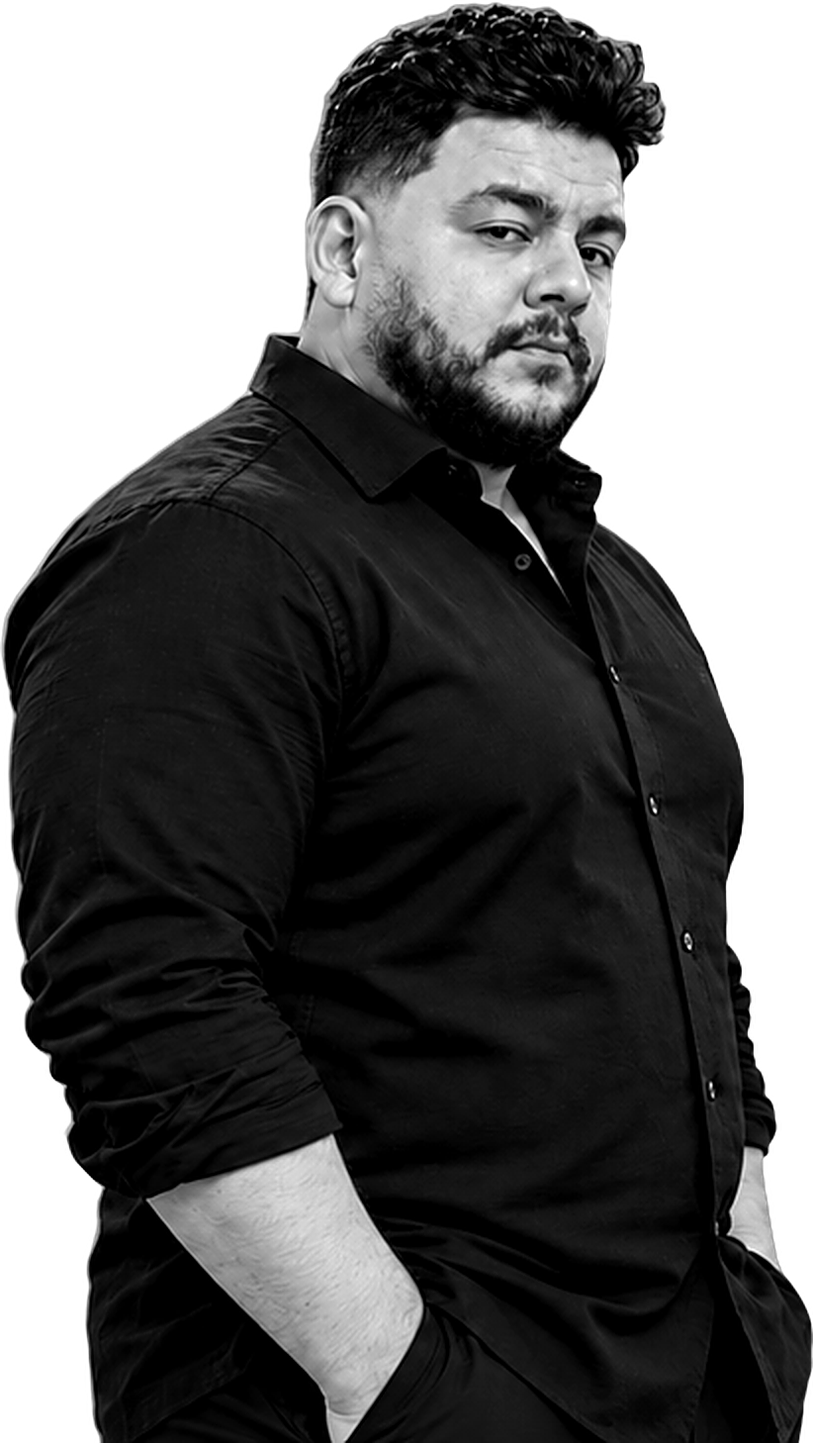
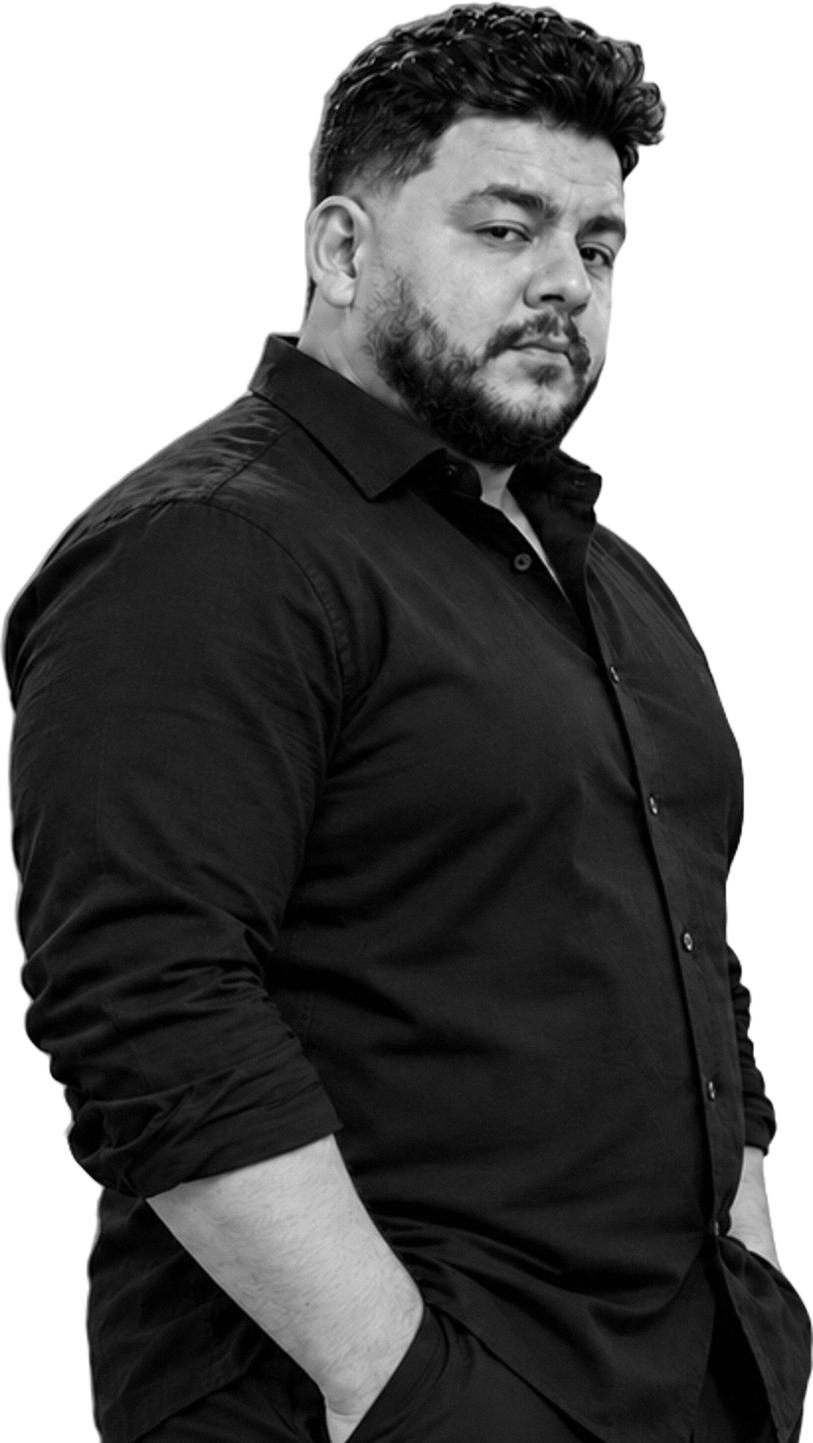
Natural hero photo, fuller About page, new hero line, markets and pricing wording

diff --git a/index.html b/index.html
@@ -4,9 +4,9 @@
 <meta charset="utf-8">
 <meta name="viewport" content="width=device-width,initial-scale=1">
 <title>يوسف خليل | مستشار تسويق</title>
-<meta name="description" content="مستشار تسويق بخبرة 15 سنة في مصر والسعودية. تشخيص تسويقي، استراتيجية 90 يوم، ومدير تسويق بدوام جزئي للشركات.">
+<meta name="description" content="مستشار تسويق بخبرة 15 سنة في مصر والسعودية والإمارات وأوروبا. بقود فريق التسويق عندك أو فريقي ينفذلك، والسعر حسب احتياج كل عميل.">
 <meta property="og:title" content="يوسف خليل | مستشار تسويق">
-<meta property="og:description" content="مستشار تسويق بخبرة 15 سنة في مصر والسعودية. تشخيص تسويقي، استراتيجية 90 يوم، ومدير تسويق بدوام جزئي للشركات.">
+<meta property="og:description" content="مستشار تسويق بخبرة 15 سنة في مصر والسعودية والإمارات وأوروبا. بقود فريق التسويق عندك أو فريقي ينفذلك، والسعر حسب احتياج كل عميل.">
 <meta property="og:type" content="website">
 <meta property="og:url" content="https://youssefkhalil.co/">
 <meta property="og:image" content="https://youssefkhalil.co/youssef-khalil.png">
@@ -446,6 +446,28 @@ nav a[aria-current="page"]{text-decoration:underline;text-underline-offset:6px;t
   .stile{align-items:center}
   .stile img{height:auto;aspect-ratio:4/5;object-fit:cover;border-inline-end:2px solid var(--line)}
 }
+
+/* ===== v19: fuller About + sticker away from face ===== */
+.about-lead{font-family:var(--ar);font-weight:900;font-size:clamp(1.7rem,4.4vw,3.2rem);line-height:1.45;max-width:22ch;color:var(--ink)!important;margin-top:-6px}
+.story .big3{gap:12px 40px}
+.timeline{list-style:none;margin:0;padding:0;border-inline-start:3px solid var(--line);display:flex;flex-direction:column;gap:30px}
+.timeline li{position:relative;padding-inline-start:30px;max-width:70ch}
+.timeline li::before{content:"";position:absolute;inset-inline-start:-10.5px;top:8px;width:18px;height:18px;border-radius:50%;background:var(--red);border:3px solid var(--paper)}
+.tl-k{display:inline-block;font-family:var(--ar);font-weight:800;font-size:.8rem;color:#fff;background:var(--black);border-radius:999px;padding:2px 14px;margin-bottom:8px}
+.timeline p{color:var(--muted);margin-top:4px}
+.quote-sub{color:var(--muted);font-size:1.08rem;max-width:56ch;margin-top:22px}
+.sectors{display:grid;grid-template-columns:repeat(4,minmax(0,1fr));gap:22px}
+.sectors > div{background:var(--sheet);border:2px solid var(--line);padding:22px;box-shadow:6px 6px 0 var(--black)}
+.sectors > div:nth-child(even){box-shadow:6px 6px 0 var(--red)}
+.sectors h3{font-size:1.08rem;margin-bottom:10px}
+.sectors ul{margin:0;padding-inline-start:18px;color:var(--muted);font-size:.95rem}
+.sectors li::marker{color:var(--red)}
+.caps{gap:10px 12px}
+.caps li{font-size:1rem;padding:8px 20px}
+.caps li:nth-child(3n+1){background:var(--black);color:var(--on-black)}
+.sticker{top:auto;bottom:22%;right:auto;left:-3%}
+.hero-photo img{filter:drop-shadow(3px 0 0 var(--red)) drop-shadow(-3px 0 0 var(--red)) drop-shadow(0 -3px 0 var(--red))}
+@media (max-width:860px){.sectors{grid-template-columns:1fr}.about-lead{max-width:none}.sticker{bottom:20%;left:0}}
 </style>
 
 <div class="page" dir="rtl" lang="ar">
@@ -471,7 +493,7 @@ nav a[aria-current="page"]{text-decoration:underline;text-underline-offset:6px;t
       <div><b data-count="35" data-prefix="+">+35</b><span>فرد في أكبر فريق قدته</span></div>
       <div><b data-count="48" data-suffix="M">48M</b><span>ريال مبيعات موسم واحد</span></div>
     </div>
-    <h1><span class="hello">أهلاً</span>— أنا يوسف خليل. ببني للشركات تسويق <span class="sel">بيكسّب</span> بمستوى البراندات الكبيرة.</h1>
+    <h1><span class="hello">أهلاً</span>— أنا يوسف خليل. 15 سنة بحوّل ميزانيات التسويق <span class="sel">لأرباح</span> تتقاس.</h1>
     <div class="hero-actions">
       <a class="btn wa-hero" href="https://wa.me/966567054546?text=%D8%A3%D9%87%D9%84%D8%A7%D9%8B%20%D9%8A%D9%88%D8%B3%D9%81%D8%8C%20%D8%AC%D8%A7%D9%8A%20%D9%85%D9%86%20%D8%A7%D9%84%D9%85%D9%88%D9%82%D8%B9" target="_blank" rel="noopener"><svg viewBox="0 0 24 24" aria-hidden="true"><path d="M12 2a10 10 0 0 0-8.6 15.1L2 22l5-1.3A10 10 0 1 0 12 2zm0 18a8 8 0 0 1-4.1-1.1l-.3-.2-3 .8.8-2.9-.2-.3A8 8 0 1 1 12 20zm4.4-6c-.2-.1-1.4-.7-1.6-.8-.2-.1-.4-.1-.5.1l-.7.9c-.1.2-.3.2-.5.1a6.5 6.5 0 0 1-3.2-2.8c-.2-.4.2-.4.6-1.2.1-.2 0-.3 0-.4l-.7-1.7c-.2-.5-.4-.4-.5-.4h-.5c-.2 0-.4.1-.6.3-.7.7-1 1.5-1 2.3 0 1.3 1 2.6 1.1 2.8.2.2 2 3.1 4.9 4.3 1.8.7 2.5.8 3.4.6.5-.1 1.4-.6 1.6-1.2.2-.6.2-1.1.1-1.2 0-.1-.2-.2-.4-.3z"/></svg>كلمني واتساب</a>
       <a class="btn cal" href="https://calendly.com/youssefmohameed90/marketing-consultation" target="_blank" rel="noopener">احجز اجتماع</a>
@@ -479,7 +501,7 @@ nav a[aria-current="page"]{text-decoration:underline;text-underline-offset:6px;t
     </div>
   </div>
   <div class="hero-photo">
-    <img src="youssef-khalil.png?v=2" alt="يوسف خليل بقميص أسود، صورة أبيض وأسود" width="822" height="1458">
+    <img src="youssef-khalil.png?v=3" alt="يوسف خليل بقميص أسود، صورة أبيض وأسود" width="822" height="1458">
     <span class="sticker">أول مكالمة مجاناً</span>
   </div>
 </div></section>
@@ -494,7 +516,7 @@ nav a[aria-current="page"]{text-decoration:underline;text-underline-offset:6px;t
   <div class="clients">
     <div class="clients-head">
       <h2>براندات <span class="red">وثقت</span> فيّا</h2>
-      <p>من السيارات والساعات الفاخرة للمطاعم والتجزئة والرعاية الصحية، في السعودية ومصر.</p>
+      <p>من السيارات والساعات الفاخرة للفنادق والسياحة والرياضة، ومن المطاعم والتجزئة للرعاية الصحية، في مصر والسعودية والإمارات وأوروبا.</p>
     </div>
     <div class="cl-grid cl-top">
       <div class="cl big tall"><img src="logos/mercedes-star.png" alt="Mercedes-Benz"><span>سيارات فاخرة</span></div>
@@ -521,7 +543,7 @@ nav a[aria-current="page"]{text-decoration:underline;text-underline-offset:6px;t
   <div class="sec-head">
     <div class="kicker"><span>SERVICES</span><span>01 — 02</span></div>
     <h2>بشتغل معاك <span class="red">إزاي</span></h2>
-    <p>طريقتين للتعاقد حسب وضع شركتك. السعر بيتحدد على حجم الشغل وحجم الشركة، وبتستلم عرض مكتوب قبل ما نبدأ.</p>
+    <p>طريقتين للتعاقد حسب وضع شركتك. السعر بيتحدد حسب احتياج كل عميل، وبتستلم عرض مكتوب قبل ما نبدأ.</p>
   </div>
   <div class="svc-grid">
     <article class="svc star">
@@ -576,7 +598,7 @@ nav a[aria-current="page"]{text-decoration:underline;text-underline-offset:6px;t
   </div>
   <ol class="steps">
     <li><h3>جلسة تعارف</h3><p>مجاناً. أفهم البيزنس والمشكلة وأقولك بصراحة أقدر أفيدك ولا لأ.</p></li>
-    <li><h3>عرض مكتوب</h3><p>نطاق الشغل والتسليمات والمدة والسعر في صفحة واحدة. السعر على حجم الشغل وحجم الشركة.</p></li>
+    <li><h3>عرض مكتوب</h3><p>نطاق الشغل والتسليمات والمدة والسعر في صفحة واحدة. السعر حسب احتياجك.</p></li>
     <li><h3>بنبدأ بتشخيص</h3><p>أول أسبوعين بنراجع الأرقام والحسابات والفريق، وبعدها الخطة والتنفيذ.</p></li>
   </ol>
 </div></section>
@@ -597,10 +619,10 @@ nav a[aria-current="page"]{text-decoration:underline;text-underline-offset:6px;t
 <section class="sec" style="padding-top:20px"><div class="wrap faq">
   <div class="sec-head"><div class="kicker"><span>FAQ</span><span></span></div><h2>قبل ما تكلمني</h2></div>
   <details><summary>بتشتغل مع شركات بأي حجم؟</summary><p>من متجر بيصرف على الإعلانات بانتظام لحد مجموعة بفروع. المهم يكون في أرقام أشتغل عليها وصاحب قرار أتكلم معاه.</p></details>
-  <details><summary>السعودية ولا مصر؟</summary><p>الاتنين. اشتغلت سنين في السوق السعودي وعارف الفرق بينه وبين المصري.</p></details>
+  <details><summary>بتشتغل في أنهي أسواق؟</summary><p>اشتغلت في مصر والسعودية والإمارات وأوروبا. كل سوق ليه أسعاره وسلوك عميله، وبشتغل مع كل عميل على السوق اللي بيبيع فيه.</p></details>
   <details><summary>هتحتاج مني إيه عشان تبدأ؟</summary><p>دخول مشاهدة على حسابات الإعلانات والمتجر أو الـ CRM، وأرقام المبيعات لآخر 3 شهور.</p></details>
   <details><summary>مين اللي بينفذ؟</summary><p>حسب اختيارك. لو عندك فريق أو وكالة، بقودهم وأراجع شغلهم. ولو معندكش، فريقي الخاص بينفذ تحت قيادتي.</p></details>
-  <details><summary>السعر بيتحدد إزاي؟</summary><p>مفيش باقات ثابتة. السعر على حجم الشغل وحجم الشركة، وبتستلم عرض مكتوب بعد جلسة التعارف.</p></details>
+  <details><summary>السعر بيتحدد إزاي؟</summary><p>مفيش باقات ثابتة. كل عميل ليه احتياج مختلف، فالسعر بيتحدد على احتياجك انت، وبتستلم عرض مكتوب بعد جلسة التعارف.</p></details>
 </div></section>
 
 </div>
@@ -641,7 +663,7 @@ nav a[aria-current="page"]{text-decoration:underline;text-underline-offset:6px;t
     </div>
   </article>
   <div class="terms">
-    <div><b>السعر</b><p>مفيش باقات ثابتة. السعر بيتحدد على حجم الشغل وحجم الشركة، وبتستلم عرض مكتوب قبل ما نبدأ.</p></div>
+    <div><b>السعر</b><p>مفيش باقات ثابتة. السعر بيتحدد حسب احتياج كل عميل، وبتستلم عرض مكتوب قبل ما نبدأ.</p></div>
     <div><b>البداية</b><p>كل تعاقد بيبدأ بتشخيص: مراجعة للأرقام والحسابات والفريق، عشان الخطة تتبني على اللي موجود فعلاً.</p></div>
   </div>
 </div></section>
@@ -696,35 +718,75 @@ nav a[aria-current="page"]{text-decoration:underline;text-underline-offset:6px;t
 <section class="view-hero"><div class="wrap">
   <div class="kicker"><span>ABOUT</span><span class="stars">✸✦✤</span></div>
   <h1 class="mega">عني</h1>
+  <p class="about-lead">التسويق عندي مش مصروف. استثمار <span class="red">ولازم يرجع.</span></p>
 </div></section>
+
 <section class="sec" style="padding-top:0"><div class="wrap about">
   <figure class="pola" style="margin:0">
     <img src="youssef-khalil-portrait.jpg" alt="يوسف خليل بقميص أسود، صورة أبيض وأسود" width="560" height="700">
-    <figcaption>يوسف خليل · القاهرة</figcaption>
+    <figcaption>يوسف خليل · مستشار تسويق</figcaption>
   </figure>
   <div class="story">
-    <p>أنا يوسف خليل، مستشار تسويق. بقالي 15 سنة في التسويق في مصر والسعودية، منهم 7 سنين في قيادة إقليمية.</p>
-    <p>بدأت بإيدي في التنفيذ، وبعدها قدت استراتيجية وفرق ومحافظ براندات كاملة. في مجموعة إيفاد الدولية اشتغلت على براندات في مجالات مختلفة تماماً في نفس الوقت، وكمستشار اشتغلت مع مرسيدس في السعودية ومصر.</p>
-    <p>اللي اتعلمته: الخطة الكويسة لازم تشتغل في أوضة الاجتماعات، وفي لوحة الإعلانات، وعند اللحظة اللي العميل بياخد فيها القرار.</p>
+    <p>أنا يوسف خليل. بدأت سنة 2010 بإيدي في التنفيذ، وكنت بسأل نفسي سؤال واحد بعد كل حملة: الشركة كسبت إيه من ده؟</p>
+    <p>السؤال ده هو اللي كبّرني. خلّاني أسيب مطاردة اللايكات وأمسك الأرقام اللي أصحاب الشركات بيهتموا بيها فعلاً: المبيعات، الهامش، وتكلفة العميل.</p>
+    <p>بعد 15 سنة، قدت تسويق براندات ومجموعات كاملة في مصر والسعودية والإمارات وأوروبا، وفي قطاعات مالهاش علاقة ببعض: من السيارات والساعات الفاخرة للفنادق والرياضة والمطاعم والرعاية الصحية.</p>
+    <p>اللي طلعت بيه من ده كله: القواعد واحدة في كل سوق وكل قطاع، بس التفاصيل هي اللي بتكسّب أو بتخسّر. وشغلتي إني أمسك التفاصيل دي.</p>
     <div class="big3">
       <div><b>15</b><span>سنة في التسويق</span></div>
       <div><b>7</b><span>سنين قيادة إقليمية</span></div>
       <div><b>35</b><span>فرد في أكبر فريق قدته</span></div>
+      <div><b>20</b><span>قطاع اشتغلت فيه</span></div>
     </div>
+  </div>
+</div></section>
+
+<section class="sec" style="padding-top:0"><div class="wrap">
+  <div class="sec-head"><div class="kicker"><span>THE JOURNEY</span><span class="stars">✸✦✤</span></div><h2>المشوار <span class="red">باختصار</span></h2></div>
+  <ol class="timeline">
+    <li><span class="tl-k">2010</span><h3>بدأت من تحت</h3><p>متخصص سوشيال ميديا، بكتب وبصمم وبنزّل الحملات بنفسي. من هنا عرفت إيه اللي بيشتغل على الأرض وإيه اللي بيتقال في الاجتماعات بس.</p></li>
+    <li><span class="tl-k">القيادة</span><h3>7 سنين قيادة تسويق إقليمية</h3><p>بقيت مسؤول عن أكتر من سوق في نفس الوقت: براندات بتتبني، حملات متكاملة، وفرق فيها كل التخصصات.</p></li>
+    <li><span class="tl-k">المجموعة</span><h3>تسويق مجموعة كاملة</h3><p>في مجموعة إيفاد الدولية قدت تسويق شركات مختلفة تماماً تحت سقف واحد: تجزئة وأزياء، رعاية صحية، تكنولوجيا، عقارات، خدمات تنقل، وإنتاج إعلامي.</p></li>
+    <li><span class="tl-k">الاستشارات</span><h3>مستشار لبراندات كبيرة</h3><p>اشتغلت كمستشار مع براندات زي مرسيدس، ومع شركات بتدخل أسواق جديدة أو بتعيد بناء تسويقها من الأول.</p></li>
+    <li><span class="tl-k">النهارده</span><h3>مستشار بفريق خاص</h3><p>بقود فريق التسويق عند العميل، أو فريقي بينفذ الشغل كله تحت قيادتي. في الحالتين أنا المسؤول عن النتيجة.</p></li>
+  </ol>
+</div></section>
+
+<section class="sec" style="padding-top:0"><div class="wrap">
+  <div class="sec-head"><div class="kicker"><span>WHY ME</span><span></span></div><h2>ليه <span class="red">تشتغل معايا</span></h2></div>
+  <div class="cols">
+    <div><h3>ببدأ من مشكلة البيزنس</h3><p>مش بسألك عايز إعلان إيه. بسألك عايز توصل لإيه، وبرجع من الهدف ده للخطة.</p></div>
+    <div><h3>شفت المشكلة دي قبل كده</h3><p>20 قطاع وأكتر من سوق معناهم إن أغلب اللي بيقابلك أنا قابلته، وعارف إيه اللي نفع وإيه اللي ضيّع فلوس.</p></div>
+    <div><h3>الخطة عندي بتتنفذ</h3><p>قدت فرق لحد 35 فرد. الاستراتيجية بتتحول لأولويات أسبوعية ومسؤول واضح عن كل حاجة.</p></div>
   </div>
 </div></section>
 
 <section class="sec" style="padding-top:0"><div class="wrap">
   <div class="sec-head"><div class="kicker"><span>HOW I LEAD</span><span></span></div><h2>بقود <span class="red">إزاي</span></h2></div>
   <div class="cols">
-    <div><h3>اتجاه واضح</h3><p>بحوّل السوق وسلوك العميل لتموضع وأولويات وخطة الكل فاهمها.</p></div>
-    <div><h3>فريق متفق</h3><p>الكرييتيف والميديا والمحتوى والمبيعات بيشتغلوا على هدف واحد ومسؤوليات معروفة.</p></div>
-    <div><h3>أرقام تهم</h3><p>ببص بعد اللايكات والليدز: جودة العميل، التحويل، تكلفة الاكتساب، والاحتفاظ.</p></div>
+    <div><h3>اتجاه واضح</h3><p>كل الفريق عارف إحنا رايحين فين وليه، قبل ما حد يبدأ يجري.</p></div>
+    <div><h3>فريق متفق</h3><p>الكرييتيف والميديا والمحتوى والمبيعات على هدف واحد، مش كل قسم بيحتفل برقمه لوحده.</p></div>
+    <div><h3>أرقام تهم</h3><p>مش بقف عند اللايكات والليدز. ببص على جودة العميل، التحويل، تكلفة الاكتساب، ومين رجع يشتري تاني.</p></div>
   </div>
 </div></section>
 
 <section class="sec" style="padding-top:0"><div class="wrap">
   <p class="quote">الحملة مش خط النهاية. اللي بيحصل للعميل وللبيزنس <span class="red">بعد الحملة</span> هو المهم.</p>
+  <p class="quote-sub">عشان كده بمسك الرحلة كلها: من أول ما العميل يشوفك، لحد ما يدفع، لحد ما يرجع يشتري تاني.</p>
+</div></section>
+
+<section class="sec" style="padding-top:0"><div class="wrap">
+  <div class="sec-head"><div class="kicker"><span>INDUSTRIES</span><span class="stars">✸✦✤</span></div><h2>قطاعات <span class="red">اشتغلت فيها</span></h2><p>قطاعات مختلفة وعقلية تجارية واحدة.</p></div>
+  <div class="sectors">
+    <div><h3>الضيافة والسياحة والرياضة</h3><ul><li>الفنادق والضيافة</li><li>السياحة</li><li>الرياضة وأندية الكرة</li><li>خدمات تنقل الحج والعمرة</li><li>الإنتاج الإعلامي والفيديو</li></ul></div>
+    <div><h3>المستهلك والفاخر</h3><ul><li>السيارات والوكالات</li><li>الساعات والمجوهرات الفاخرة</li><li>الأزياء والتجزئة والفرنشايز</li><li>المطاعم والوجبات السريعة</li><li>السلع الاستهلاكية والعناية الشخصية</li></ul></div>
+    <div><h3>الصحة</h3><ul><li>المستشفيات والمراكز الطبية</li><li>الأدوية والمنتجات الطبية</li><li>تسويق الأطباء والعيادات</li><li>المبادرات المجتمعية</li></ul></div>
+    <div><h3>الأعمال والتكنولوجيا</h3><ul><li>البرمجيات والتكنولوجيا</li><li>الأجهزة الذكية</li><li>العقارات والإنشاءات</li><li>التصنيع والاستيراد والتوزيع</li><li>البراند الشخصي والشخصيات العامة</li></ul></div>
+  </div>
+</div></section>
+
+<section class="sec" style="padding-top:0"><div class="wrap">
+  <div class="sec-head"><div class="kicker"><span>CAPABILITIES</span><span></span></div><h2>بشتغل <span class="red">على إيه</span></h2></div>
+  <ul class="facts caps"><li>استراتيجية البراند</li><li>خطط التسويق</li><li>دخول الأسواق</li><li>الحملات المتكاملة</li><li>التسويق بالأداء</li><li>نمو البيزنس</li><li>الاستراتيجية التجارية</li><li>تجربة العميل</li><li>قيادة الفرق</li><li>إدارة الوكالات</li></ul>
 </div></section>
 
 <section class="sec" style="padding-top:0"><div class="wrap">
